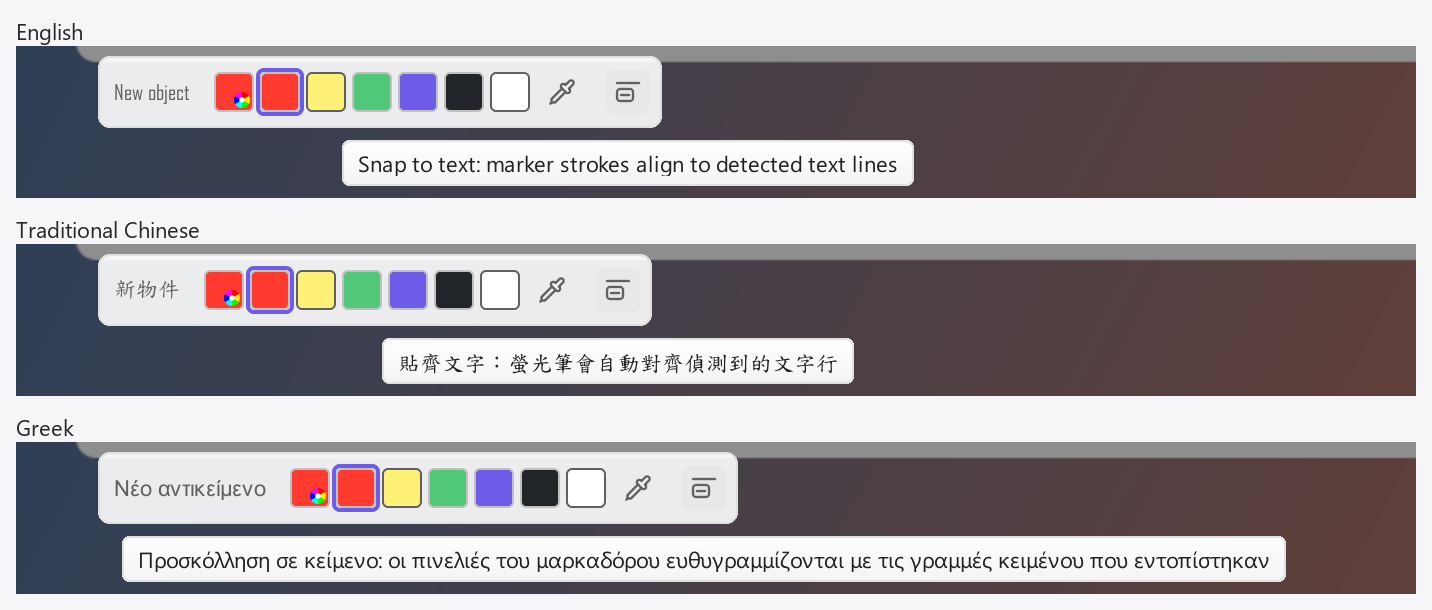
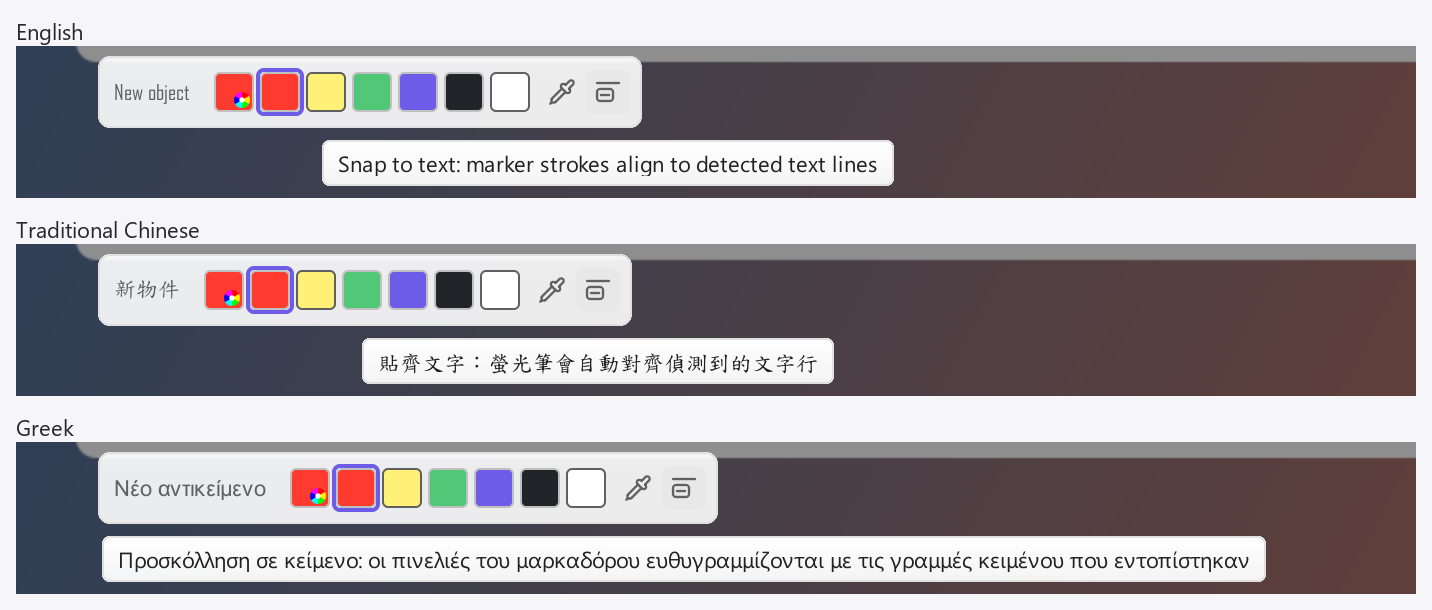
fix(toolbar): put Snap to text right after the eyedropper (#304)
Review asked why the eyedropper and the Snap to text toggle sat a full
section gap (12px) apart. The toggle now joins the color row, 2px after
the eyedropper: the spacing of adjacent icon buttons such as Shape's,
which also makes the gap between the two icons equal to the gap from
the last swatch to the eyedropper icon (9px). This replaces #305's
rule that the eyedropper keep twice its swatch gap before the next
control; its test is replaced to match.

Evidence sheets re-rendered.

diff --git a/src/qml/toolbar/ToolOptionsStrip.qml b/src/qml/toolbar/ToolOptionsStrip.qml
@@ -24,6 +24,9 @@ Item {
     signal controlTooltipRequested(string controlName, string text)
     signal controlTooltipDismissed(string controlName)
 
+    // The Snap to text toggle sits 2px after the eyedropper, the spacing of
+    // adjacent icon buttons (Shape's), so the two read as one group (#304).
+    readonly property int markerTextSnapGap: 2
     readonly property color controlHoverBg: SemanticTokens.isDarkMode
         ? Qt.rgba(80 / 255, 80 / 255, 80 / 255, 1.0)
         : Qt.rgba(232 / 255, 232 / 255, 232 / 255, 1.0)
@@ -134,6 +137,10 @@ Item {
             spacing: {
                 if (!root.hasViewModel)
                     return 0
+                // Marker shows only colors, so this spacing falls between the
+                // eyedropper and the toggle.
+                if (markerTextSnapToggle.visible)
+                    return root.markerTextSnapGap - colorPaletteSection.sectionPadding
                 if (root.viewModel.showWidthSection && root.viewModel.showColorSection)
                     return -2
                 if (root.viewModel.showWidthSection
@@ -151,6 +158,7 @@ Item {
             }
 
             ColorPaletteSection {
+                id: colorPaletteSection
                 visible: root.hasViewModel && root.viewModel.showColorSection
                 viewModel: root.viewModel
                 anchors.verticalCenter: parent.verticalCenter
@@ -162,6 +170,58 @@ Item {
                 }
             }
 
+            // Smart marker "Snap to text" (#281, #304): a fixed-size icon toggle
+            // styled like Shape's Filled toggle, so its width never follows the locale.
+            // It sits right after the eyedropper (see markerTextSnapGap).
+            Rectangle {
+                id: markerTextSnapToggle
+                objectName: "markerTextSnapToggle"
+                readonly property bool checked: root.hasViewModel && root.viewModel.markerTextSnapEnabled
+                readonly property string tooltipText:
+                    qsTr("Snap to text: marker strokes align to detected text lines")
+                visible: root.hasViewModel && root.viewModel.markerTextSnapAvailable
+                         && root.viewModel.markerActive && !root.viewModel.editingSelection
+                width: 22
+                height: 22
+                radius: 4
+                anchors.verticalCenter: parent.verticalCenter
+                color: checked ? DesignSystem.accentDefault
+                     : markerTextSnapMouse.containsMouse ? root.controlHoverBg
+                     : "transparent"
+                Accessible.role: Accessible.CheckBox
+                Accessible.name: qsTr("Snap to text")
+                Accessible.description: tooltipText
+                Accessible.checkable: true
+                Accessible.checked: checked
+                Accessible.onToggleAction: markerTextSnapToggle.toggle()
+                Accessible.onPressAction: markerTextSnapToggle.toggle()
+
+                function toggle() {
+                    if (root.hasViewModel)
+                        root.viewModel.markerTextSnapEnabled = !root.viewModel.markerTextSnapEnabled
+                }
+
+                SvgIcon {
+                    anchors.centerIn: parent
+                    source: "qrc:/icons/icons/marker-snap-text.svg"
+                    iconSize: 14
+                    color: markerTextSnapToggle.checked
+                        ? ComponentTokens.toolbarIconActive
+                        : ComponentTokens.toolbarIcon
+                }
+
+                MouseArea {
+                    id: markerTextSnapMouse
+                    anchors.fill: parent
+                    cursorShape: CursorTokens.toolbarControl
+                    hoverEnabled: true
+                    onEntered: root.controlTooltipRequested(markerTextSnapToggle.objectName,
+                                                            markerTextSnapToggle.tooltipText)
+                    onExited: root.controlTooltipDismissed(markerTextSnapToggle.objectName)
+                    onClicked: markerTextSnapToggle.toggle()
+                }
+            }
+
             AutoBlurSection {
                 visible: root.hasViewModel && root.viewModel.showAutoBlurSection
                 viewModel: root.viewModel
@@ -170,57 +230,6 @@ Item {
                 onButtonHovered: root.controlTooltipRequested(
                     "autoBlurButton", root.hasViewModel ? root.viewModel.autoBlurHintText : "")
                 onButtonHoverExited: root.controlTooltipDismissed("autoBlurButton")
-            }
-        }
-
-        // Smart marker "Snap to text" (#281, #304): a fixed-size icon toggle
-        // styled like Shape's Filled toggle, so its width never follows the locale.
-        Rectangle {
-            id: markerTextSnapToggle
-            objectName: "markerTextSnapToggle"
-            readonly property bool checked: root.hasViewModel && root.viewModel.markerTextSnapEnabled
-            readonly property string tooltipText:
-                qsTr("Snap to text: marker strokes align to detected text lines")
-            visible: root.hasViewModel && root.viewModel.markerTextSnapAvailable
-                     && root.viewModel.markerActive && !root.viewModel.editingSelection
-            width: 22
-            height: 22
-            radius: 4
-            anchors.verticalCenter: parent.verticalCenter
-            color: checked ? DesignSystem.accentDefault
-                 : markerTextSnapMouse.containsMouse ? root.controlHoverBg
-                 : "transparent"
-            Accessible.role: Accessible.CheckBox
-            Accessible.name: qsTr("Snap to text")
-            Accessible.description: tooltipText
-            Accessible.checkable: true
-            Accessible.checked: checked
-            Accessible.onToggleAction: markerTextSnapToggle.toggle()
-            Accessible.onPressAction: markerTextSnapToggle.toggle()
-
-            function toggle() {
-                if (root.hasViewModel)
-                    root.viewModel.markerTextSnapEnabled = !root.viewModel.markerTextSnapEnabled
-            }
-
-            SvgIcon {
-                anchors.centerIn: parent
-                source: "qrc:/icons/icons/marker-snap-text.svg"
-                iconSize: 14
-                color: markerTextSnapToggle.checked
-                    ? ComponentTokens.toolbarIconActive
-                    : ComponentTokens.toolbarIcon
-            }
-
-            MouseArea {
-                id: markerTextSnapMouse
-                anchors.fill: parent
-                cursorShape: CursorTokens.toolbarControl
-                hoverEnabled: true
-                onEntered: root.controlTooltipRequested(markerTextSnapToggle.objectName,
-                                                        markerTextSnapToggle.tooltipText)
-                onExited: root.controlTooltipDismissed(markerTextSnapToggle.objectName)
-                onClicked: markerTextSnapToggle.toggle()
             }
         }
 

diff --git a/tests/Qml/tst_ColorPaletteSectionQml.cpp b/tests/Qml/tst_ColorPaletteSectionQml.cpp
@@ -22,7 +22,7 @@ class tst_ColorPaletteSectionQml : public QObject
 private slots:
     void initTestCase();
     void swatchesRunUnbrokenAndTheEyedropperEndsTheRow();
-    void eyedropperStaysCloserToTheSwatchesThanToTheNextControl();
+    void snapToTextSitsRightAfterTheEyedropper();
     void eyedropperIsNotDimmedAtRest();
     void hoveringTheEyedropperRequestsItsNameAndShortcut();
     void leavingOrPressingTheEyedropperDismissesItsTooltip();
@@ -113,10 +113,12 @@ void tst_ColorPaletteSectionQml::swatchesRunUnbrokenAndTheEyedropperEndsTheRow()
     QVERIFY(pickRect.left() > rectIn(custom, root).right());
 }
 
-void tst_ColorPaletteSectionQml::eyedropperStaysCloserToTheSwatchesThanToTheNextControl()
+void tst_ColorPaletteSectionQml::snapToTextSitsRightAfterTheEyedropper()
 {
-    // Marker shows the colors followed by the "Snap to text" toggle: the
-    // eyedropper must read as part of the color row, not of that next control.
+    // Marker shows the colors followed by the "Snap to text" toggle. The two
+    // icon buttons sit together, 2px apart like Shape's buttons, rather than a
+    // full section gap apart (#304 review), so the icons themselves are as far
+    // apart as the last swatch is from the eyedropper icon.
     PinToolOptionsViewModel viewModel;
     viewModel.showForTool(static_cast<int>(ToolId::Marker));
     viewModel.setMarkerTextSnapAvailable(true);
@@ -132,14 +134,21 @@ void tst_ColorPaletteSectionQml::eyedropperStaysCloserToTheSwatchesThanToTheNext
     QTRY_VERIFY(next->isVisible());
 
     const QRectF pickRect = rectIn(pick, root);
+    const QRectF nextRect = rectIn(next, root);
     const qreal gapToSwatches = pickRect.left() - rectIn(lastSwatch, root).right();
-    const qreal gapToNext = rectIn(next, root).left() - pickRect.right();
+    const qreal gapToNext = nextRect.left() - pickRect.right();
     QVERIFY2(gapToSwatches > 0,
              qPrintable(QStringLiteral("eyedropper is not after the swatches (gap %1)")
                             .arg(gapToSwatches)));
-    QVERIFY2(gapToNext >= 2 * gapToSwatches,
-             qPrintable(QStringLiteral("swatch gap %1, next-control gap %2")
-                            .arg(gapToSwatches).arg(gapToNext)));
+    QCOMPARE(gapToNext, root->property("markerTextSnapGap").toReal());
+    QCOMPARE(gapToNext, 2.0);
+    // Both 14px icons are centered in their buttons (20px and 22px).
+    constexpr qreal kIconSize = 14.0;
+    const qreal iconGap = (gapToNext + (pickRect.width() - kIconSize) / 2.0
+                           + (nextRect.width() - kIconSize) / 2.0);
+    const qreal swatchToIcon = gapToSwatches + (pickRect.width() - kIconSize) / 2.0;
+    QCOMPARE(iconGap, swatchToIcon);
+    QCOMPARE(pickRect.center().y(), nextRect.center().y());
 }
 
 void tst_ColorPaletteSectionQml::eyedropperIsNotDimmedAtRest()

diff --git a/docs/developer/ui-design-guidelines.md b/docs/developer/ui-design-guidelines.md
@@ -328,6 +328,7 @@ Applies to the Region Capture toolbar, the Pin Window annotation toolbar, and th
 - With a text, arrow, line, or shape annotation selected, the style strip edits **that annotation**, says `Selected: <type>`, and each change is one undo step (dragging the width slider or clicking through colours coalesces until 500 ms idle). With nothing selected it says `New object` and sets the defaults for the next annotation. Editing a selection never changes the saved defaults. A selected shape keeps its type; emoji, pencil, marker, mosaic, and step badges are not restyled.
 - Selection follows the annotation, not its position in the list: erasing other annotations keeps it.
 - Marker's **Snap to text** (#304) is a 22×22 icon toggle styled like Shape's Filled toggle, so its width does not depend on the locale.
+  - It sits 2 px after the eyedropper, the spacing of adjacent icon buttons such as Shape's, so the two icon buttons read as one group. The icons are then as far apart as the last swatch is from the eyedropper icon. This replaces #305's 12 px gap before the next section.
   - Off: transparent with the toolbar icon color. Hover: the strip's hover background. On: a solid accent block with the active icon color, also while hovered.
   - Its explanation is in the sub-toolbar tooltip (`ToolOptionsStrip.controlTooltipRequested` → `QmlFloatingSubToolbar` → `ToolbarTooltipController`, shared with Auto Blur and the eyedropper; dismissals name their control, so a late one never closes another control's tooltip) and in `Accessible.description`.
   - Screen readers get a checkbox that toggles on both the toggle and press actions.
@@ -377,7 +378,7 @@ States at 2×, light and dark (rows): off, off hovered with the tooltip, on, and
 
 ![Snap to text states, light and dark](/assets/images/developer/toolbar/marker-snap-text-states.png)
 
-The icon at 14 px on 1×, 1.25×, 1.5× and 2× (rows), off / hovered / on, light and dark (columns). Its strokes sit on 14 px pixel centers, so it is pixel-sharp at 1× and stays crisp at 1.5× and 2×. At 1.25× it is anti-aliased, but each stroke stays separate: three strokes 3 px apart at 14 px cannot also line up with the 18 px raster.
+The icon at 14 px next to the eyedropper, on 1×, 1.25×, 1.5× and 2× (rows), off / hovered / on, light and dark (columns). Its strokes sit on 14 px pixel centers, so it is pixel-sharp at 1× and stays crisp at 1.5× and 2×. At 1.25× it is anti-aliased, but each stroke stays separate: three strokes 3 px apart at 14 px cannot also line up with the 18 px raster.
 
 ![Snap to text icon at four device pixel ratios](/assets/images/developer/toolbar/marker-snap-text-dpr.png)
 
